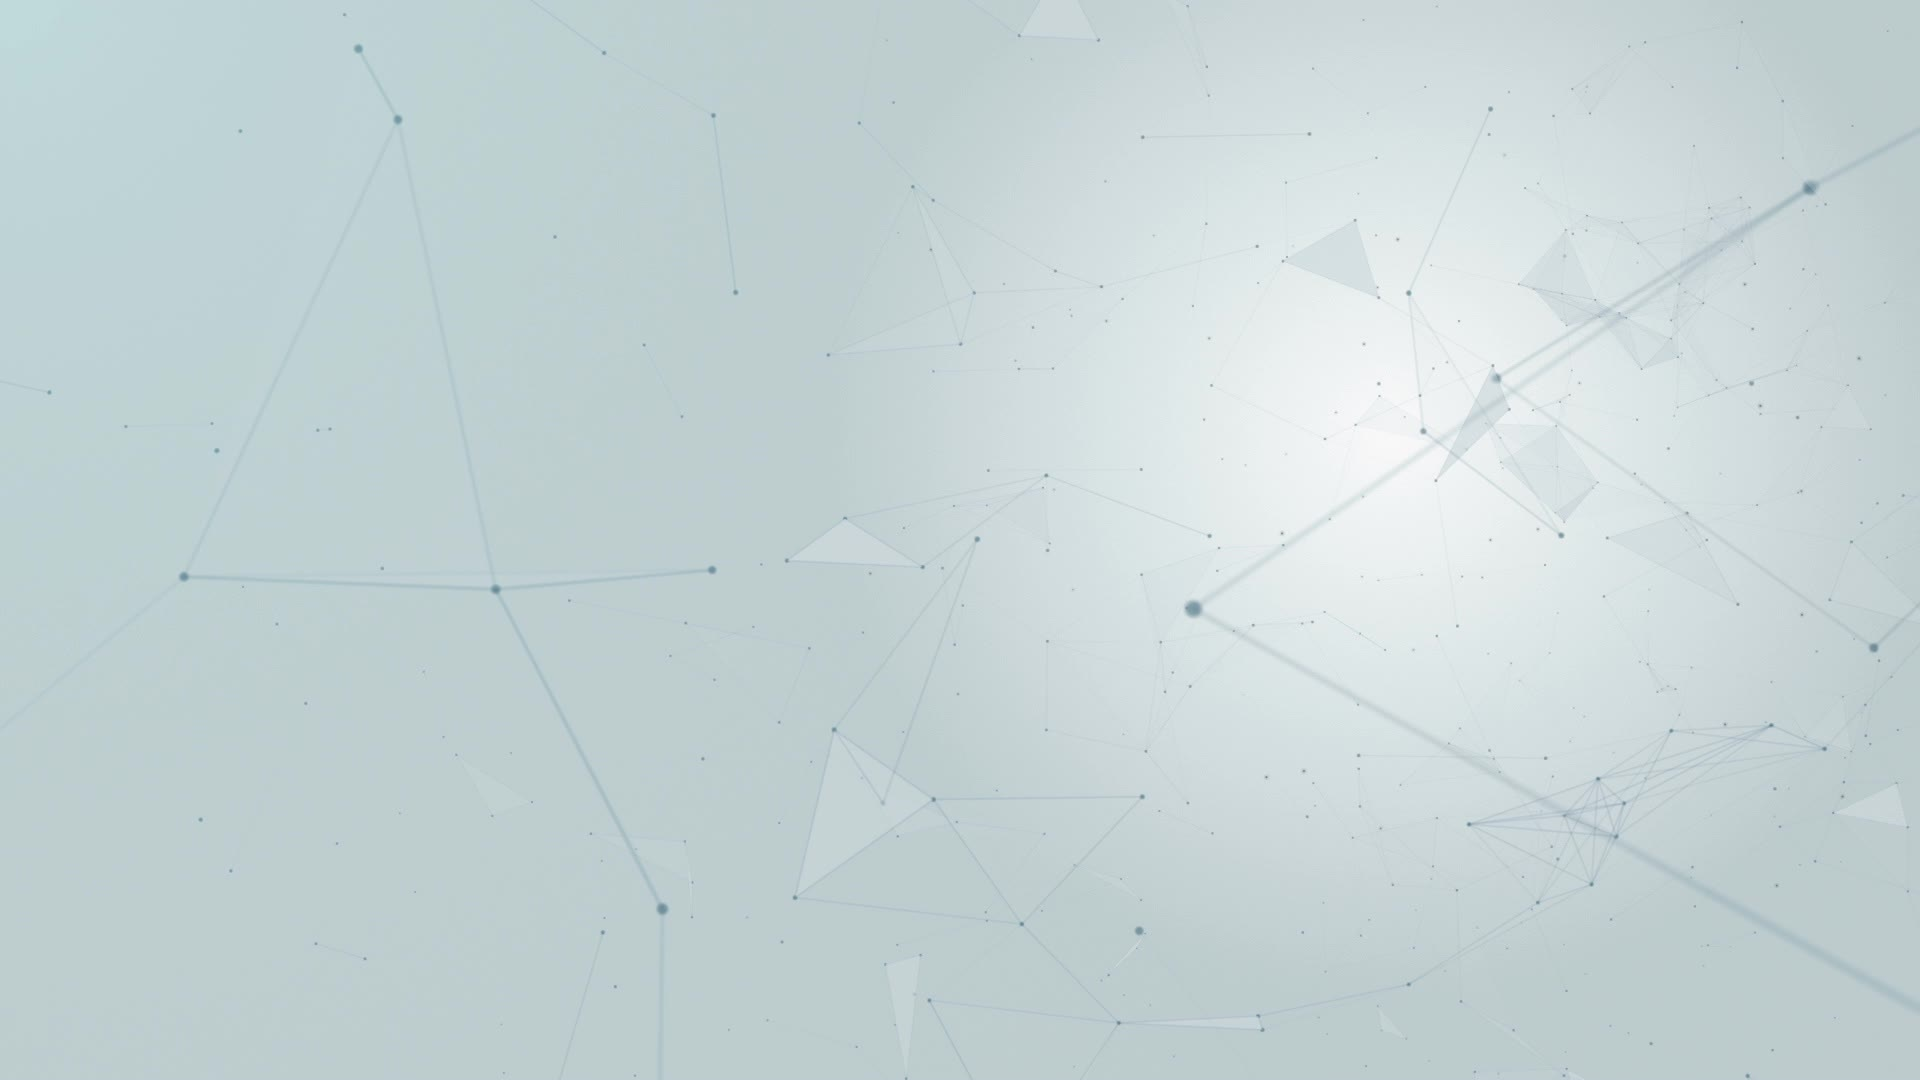
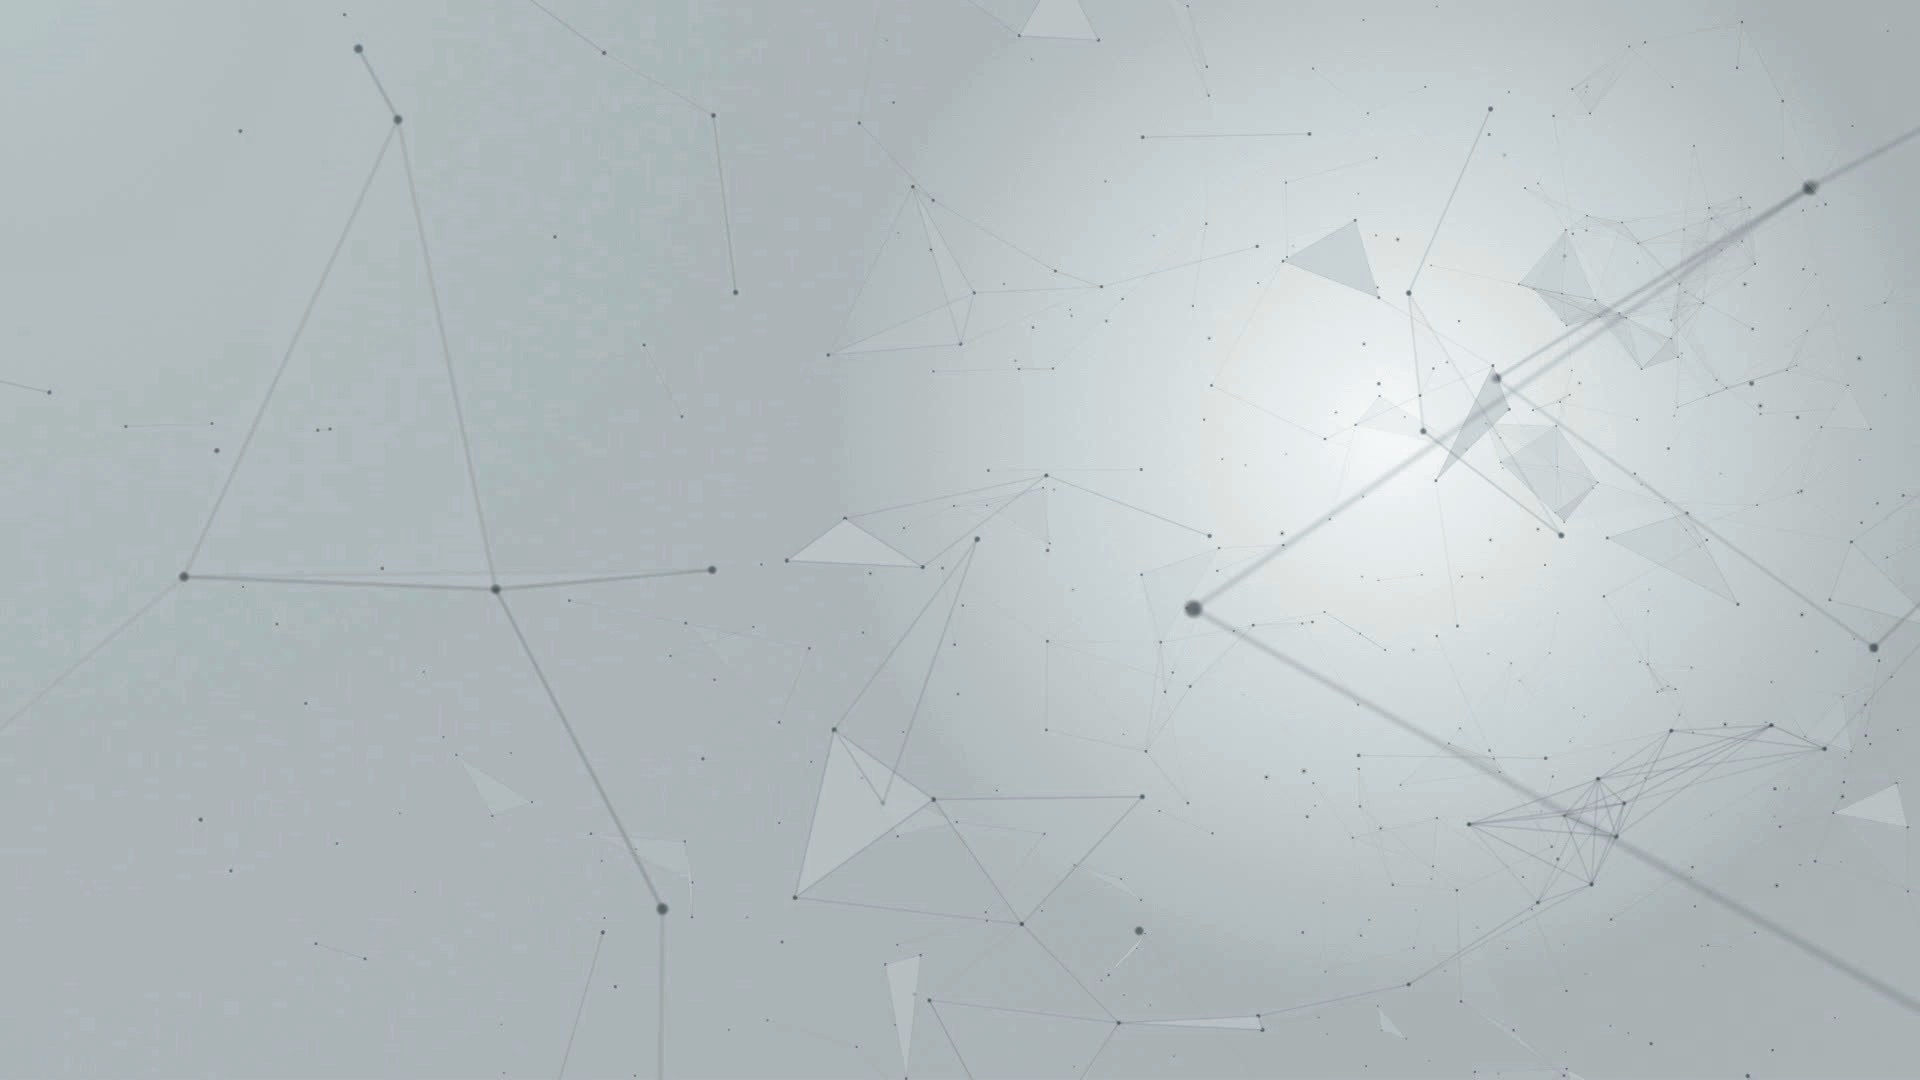
changed the UI and added a buttton.css file to change the buttons

diff --git a/css/button.css b/css/button.css
@@ -1,0 +1,47 @@
+.button {
+   border: 1px solid #353740;
+   background: #212324;
+   background: -webkit-gradient(linear, left top, left bottom, from(#5e6366), to(#212324));
+   background: -webkit-linear-gradient(top, #5e6366, #212324);
+   background: -moz-linear-gradient(top, #5e6366, #212324);
+   background: -ms-linear-gradient(top, #5e6366, #212324);
+   background: -o-linear-gradient(top, #5e6366, #212324);
+   background-image: -ms-linear-gradient(top, #5e6366 0%, #212324 100%);
+   padding: 8px 16px;
+   -webkit-border-radius: 13px;
+   -moz-border-radius: 13px;
+   border-radius: 13px;
+   -webkit-box-shadow: rgba(255,255,255,0.4) 0 0px 0, inset rgba(255,255,255,0.4) 0 0px 0;
+   -moz-box-shadow: rgba(255,255,255,0.4) 0 0px 0, inset rgba(255,255,255,0.4) 0 0px 0;
+   box-shadow: rgba(255,255,255,0.4) 0 0px 0, inset rgba(255,255,255,0.4) 0 0px 0;
+   text-shadow: #0c0d0d 0 1px 0;
+   color: #d5ecfa;
+   font-size: 13px;
+   font-family: helvetica, serif;
+   text-decoration: none;
+   vertical-align: middle;
+   }
+.button:hover {
+   border: 1px solid #6b7073;
+   text-shadow: #a0aeb8 0 1px 0;
+   background: #676c70;
+   background: -webkit-gradient(linear, left top, left bottom, from(#a7acb0), to(#676c70));
+   background: -webkit-linear-gradient(top, #a7acb0, #676c70);
+   background: -moz-linear-gradient(top, #a7acb0, #676c70);
+   background: -ms-linear-gradient(top, #a7acb0, #676c70);
+   background: -o-linear-gradient(top, #a7acb0, #676c70);
+   background-image: -ms-linear-gradient(top, #a7acb0 0%, #676c70 100%);
+   color: #1c1a1c;
+   }
+.button:active {
+   text-shadow: #a4aaad 0 1px 0;
+   border: 1px solid #585f63;
+   background: #535454;
+   background: -webkit-gradient(linear, left top, left bottom, from(#78838a), to(#676c70));
+   background: -webkit-linear-gradient(top, #78838a, #535454);
+   background: -moz-linear-gradient(top, #78838a, #535454);
+   background: -ms-linear-gradient(top, #78838a, #535454);
+   background: -o-linear-gradient(top, #78838a, #535454);
+   background-image: -ms-linear-gradient(top, #78838a 0%, #535454 100%);
+   color: #141414;
+   }

diff --git a/css/black_template.css b/css/black_template.css
@@ -44,7 +44,7 @@
 }
 
 #page-wrap, body{
-    background-color: #E4E4E4;
+    background-image: url("../picture/background7.jpg");
 
 }
 
@@ -142,7 +142,7 @@ a,h2,div,p {
 }
 
 #header .logo a{
-    color: #636363;
+    color: rgba(0, 0, 0, 0.77);
     position: absolute;
     bottom: 0%;
     right: 0%;
@@ -160,7 +160,7 @@ a,h2,div,p {
     height: 80px;
     width: 100%;
     position: fixed;
-    background-color: white;
+    background-color: #969595;
     z-index: 10;
 }
 
@@ -179,7 +179,7 @@ a,h2,div,p {
 }
 
 #header .navbar-container ul li a{
-    color: #929191;
+    color: rgba(0, 0, 0, 0.77);
     text-decoration: none;
     text-transform: uppercase;
     display: block;
@@ -197,8 +197,24 @@ a,h2,div,p {
     background: black;
 }
 
+body {
+  padding-top: 40px;
+  padding-bottom: 40px;
+  background-image: url("../picture/background7.jpg");
+}
+
 /******************************************/
 /*** CONTENT STYLES **/
+
+
+.right-content div.panel-default > .panel-heading {
+  background-image: linear-gradient(to bottom, #707070 0%, #E8E8E8 100%);
+  background-image:      -o-linear-gradient(top, #707070 0%, #e8e8e8 100%);
+  background-image: -webkit-gradient(linear, left top, left bottom, from(#707070), to(#e8e8e8));
+  background-image:         linear-gradient(to bottom, #707070 0%, #e8e8e8 100%);
+  filter: progid:DXImageTransform.Microsoft.gradient(startColorstr='#707070', endColorstr=s'#ffe8e8e8', GradientType=0);
+  background-repeat: repeat-x;
+}
 
 div.wrapper{
     position: relative;
@@ -235,21 +251,23 @@ div.wrapper{
     color: #505050;
 }
 
-.left-content,
+.left-content{
+    background-color: #787878  ;
+}
 .right-content{
-    background-color: white;
+    background-image: url("../picture/background7.jpg");
 }
 
 .left-content{
     width: 30%;
     height: 100%;
     border-right: 1px solid #D4D4D4;
-    background-color: #EFEFEF;
+    background-color: #787878  ;
 }
 
 .right-content{
     width: 70%;
-    height: 100%;
+   height: 100%;
 }
 
 .wrapper span.arrow {

diff --git a/css/signin.css b/css/signin.css
@@ -23,7 +23,11 @@ h2.sub-title{
     font-weight: 100;
     color: #237389;
 }
-
+body {
+  padding-top: 40px;
+  padding-bottom: 40px;
+  background-image: url("../picture/background7.jpg");
+}
 
 /*********************************/
 /* Form styles */
@@ -70,7 +74,7 @@ h2.sub-title{
 .form-signin .btn{
     width: 250px;
     height: 55px;
-    background-color: #28CEC8 !important;
+    background-color: #383838 !important;
     border: medium none;
     color: white;
     font-size: 16px;

diff --git a/scripts/pages/studmanageappt.py b/scripts/pages/studmanageappt.py
@@ -27,10 +27,10 @@ def page_additions():
 		return
 
 	rc_statement = '<span style="font-weight:bold;">&nbsp;&nbsp;&nbsp;Manage your appointments here!<br></br></span>'
-	rc_content = """<div class = "btn-gen" style="margin-left:15px; margin-top:10px;">
-						<button id="btn-approved" type="button" class="btn btn-primary btn-large">Approved</button>
-						<button id="btn-pending" type="button" class="btn btn-primary btn-large">Pending</button>
-						<button id="btn-declined" type="button" class="btn btn-primary btn-large">Declined</button>
+	rc_content = """<div style="margin-left:15px; margin-top:10px;">
+						<button id="btn-approved" type="button" class='button'>Approved</button>
+						<button id="btn-pending" type="button" class='button'>Pending</button>
+						<button id="btn-declined" type="button" class='button'>Declined</button>
 					</div>
 					<div style="margin-left:8px; margin-top:20px;" class="panel panel-default">
 						<div class="panel-heading" id = "appt-stat" style = "font-weight: bold;"></div>
@@ -48,7 +48,7 @@ def page_additions():
 							</table>
 						</div>
 					</div>
-					<div class = "btn-page" style="margin-left:15px; margin-top:10px;">
+					<div style="margin-left:15px; margin-top:10px;">
 						<button id="btn-prev" type="button" class="btn btn-primary btn-large">Previous</button>
 						<button id="btn-next" type="button" class="btn btn-primary btn-large">Next</button>
 						<span id="page" style="color:black; font-weight:bold;">Page 1</span>
@@ -57,6 +57,7 @@ def page_additions():
 
 	g.g_header.getScriptAdder().add('studmanageappt')
 	g.g_header.getStyleAdder().add('profile')
+	g.g_header.getStyleAdder().add('button')
 	g.g_locations.addToLocation('head_title', p.Printable("Appointments - " + g.g_user.getFirstName()))
 	g.g_locations.addToLocation('right_content', p.Printable(rc_statement))
 	g.g_locations.addToLocation('right_content', p.Printable(rc_content))

diff --git a/scripts/pages/profmanageappt.py b/scripts/pages/profmanageappt.py
@@ -28,9 +28,9 @@ def page_additions():
 		return
 
 	rc_statement = '<span style="font-weight:bold;">&nbsp;&nbsp;&nbsp;Manage your appointments here!<br></br></span>'
-	rc_content = """<div class="btn-gen" style="margin-left:15px; margin-top:10px;">
-						<button id="btn-approved" type="button" class="btn btn-primary btn-large">Approved</button>
-						<button id="btn-pending" type="button" class="btn btn-primary btn-large">Pending</button>
+	rc_content = """<div style="margin-left:15px; margin-top:10px;">
+						<button id="btn-approved" type="button" class='button'>Approved</button>
+						<button id="btn-pending" type="button" class='button'>Pending</button>
 					</div>
 					<div style="margin-left:8px; margin-top:20px;" class="panel panel-default">
 						<div class="panel-heading" id = "appt-stat" style = "font-weight: bold;"></div>
@@ -48,7 +48,7 @@ def page_additions():
 							</table>
 						</div>
 					</div>
-					<div class = "btn-page" style="margin-left:15px; margin-top:10px;">
+					<div style="margin-left:15px; margin-top:10px;">
 						<button id="btn-prev" type="button" class="btn btn-primary btn-large">Previous</button>
 						<button id="btn-next" type="button" class="btn btn-primary btn-large">Next</button>
 						<span id="page" style="color:black; font-weight:bold;">Page 1</span>
@@ -57,6 +57,7 @@ def page_additions():
 
 	g.g_header.getScriptAdder().add('profmanageappt')
 	g.g_header.getStyleAdder().add('profile')
+	g.g_header.getStyleAdder().add('button')
 	g.g_locations.addToLocation('head_title', p.Printable("Appointments - " + g.g_user.getFirstName()))
 	g.g_locations.addToLocation('right_content', p.Printable(rc_statement))
 	g.g_locations.addToLocation('right_content', p.Printable(rc_content))

diff --git a/scripts/pages/studhome.py b/scripts/pages/studhome.py
@@ -32,7 +32,7 @@ def page_additions():
 					<div style="width:50%; margin-left:8px; margin-top:30px;" class="input-group">
 						<input id="input-search" style="font-weight:bold;" type="text" class="form-control" placeholder="Professor Name">
   						<div class="input-group-btn">
-    						<button id="btn-search" type="button" class="btn btn-primary btn-large">Search</button>
+    						<button id="btn-search" type="button" class='button'>Search</button>
   						</div>
 					</div>
 					<div style="margin-left:8px; margin-top:20px;" class="panel panel-default">
@@ -51,8 +51,8 @@ def page_additions():
 						</div>
 					</div>
 					<div style="margin-left:15px; margin-top:10px;">
-						<button id="btn-prev" type="button" class="btn btn-primary btn-large">Previous</button>
-						<button id="btn-next" type="button" class="btn btn-primary btn-large">Next</button>
+						<button id="btn-prev" type="button" class='button'>Previous</button>
+						<button id="btn-next" type="button" class='button'>Next</button>
 						<span id="page" style="color:black; font-weight:bold;">Page 1</span>
 					</div>
 				"""
@@ -65,6 +65,7 @@ def page_additions():
 
 	g.g_header.getScriptAdder().add('proflist')
 	g.g_header.getStyleAdder().add('profile')
+	g.g_header.getStyleAdder().add('button')
 	g.g_locations.addToLocation('head_title', p.Printable("Home - " + g.g_user.getFirstName()))
 	g.g_locations.addToLocation('right_content', p.Printable(rc_statement))
 	g.g_locations.addToLocation('right_content', p.Printable(rc_content))
